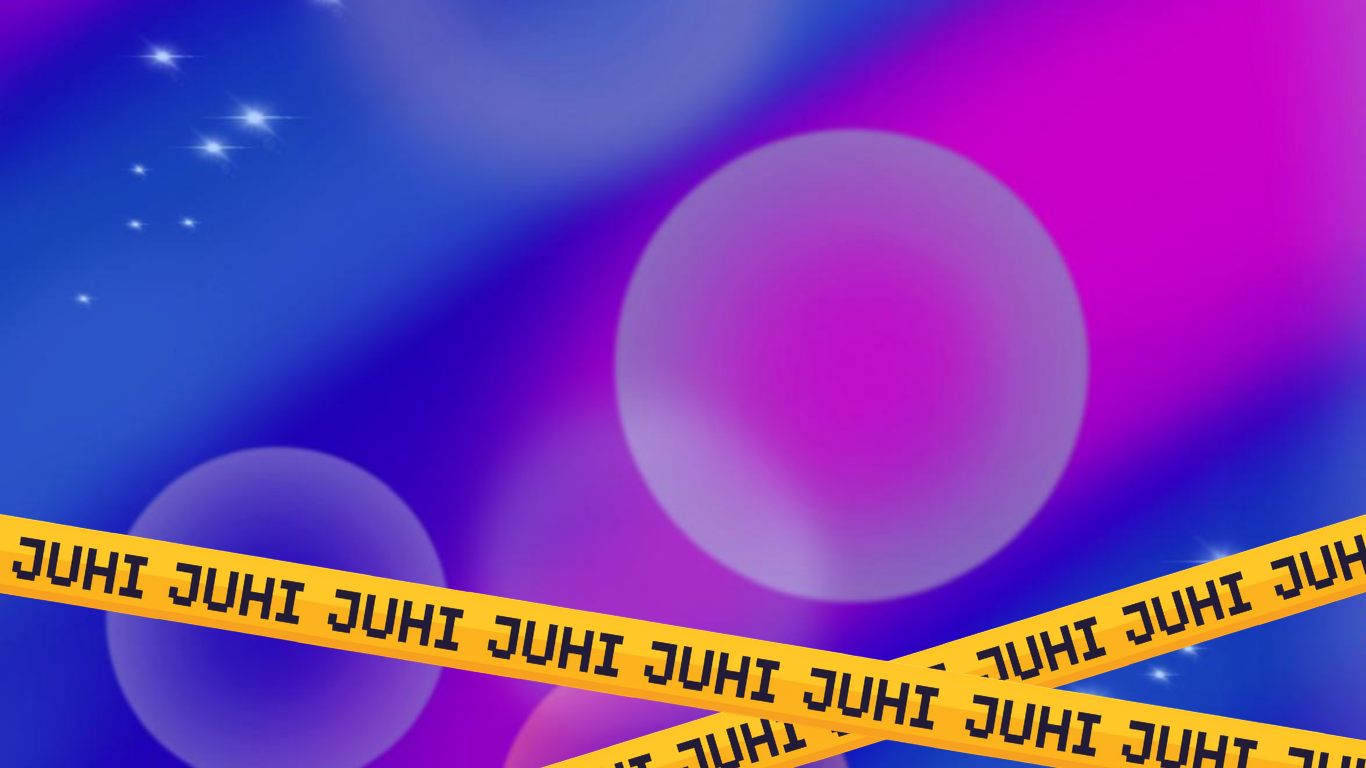
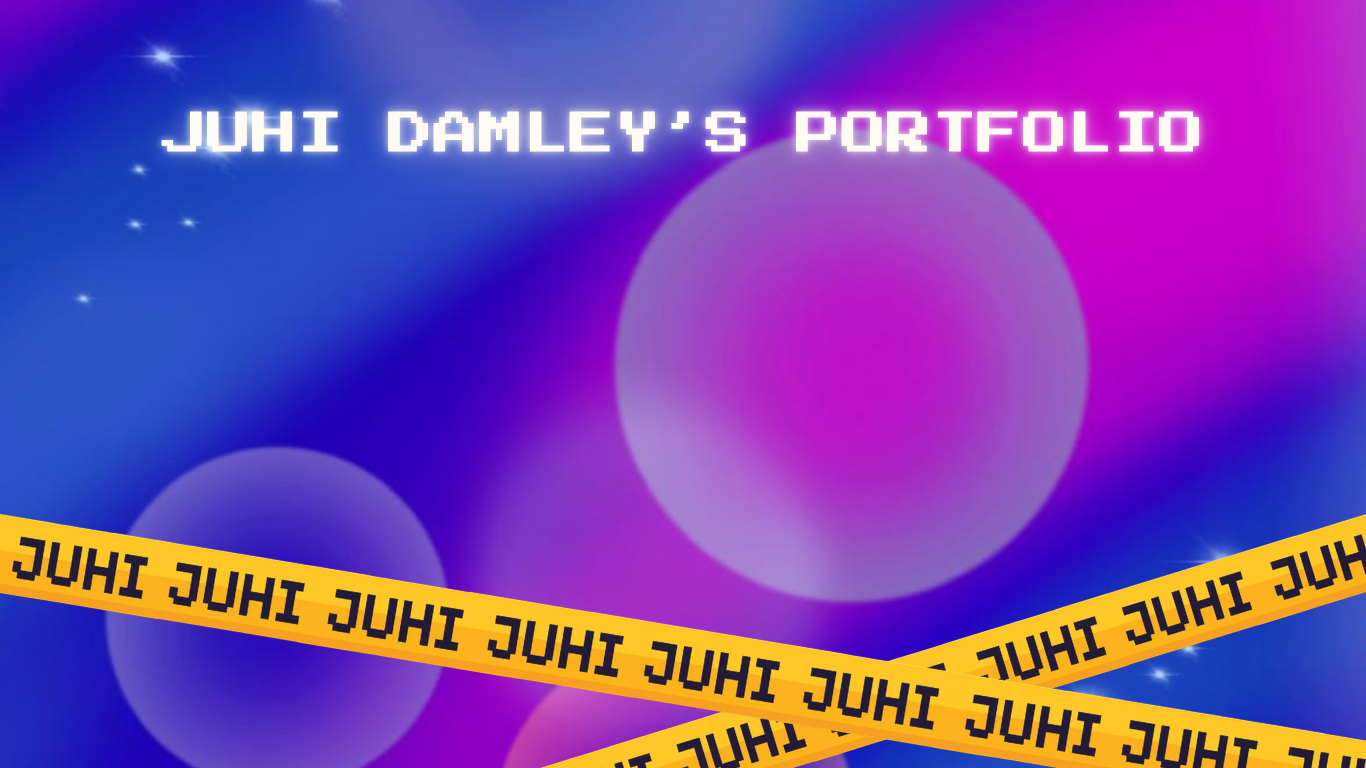
Tweaks

Changed region(s): [[0.2767, 0.125, 0.8917, 0.2188], [0.123, 0.125, 0.246, 0.2188]]

diff --git a/src/pages/Home.tsx b/src/pages/Home.tsx
@@ -27,7 +27,7 @@ type TapeItem = {
 };
 
 const NAV_ITEMS: NavItem[] = [
-  { label: 'Home', icon: '/assets/home.svg', path: '/', x: 313.6, y: 194.5, w: 152.1, h: 171.2 },
+  { label: 'Home', icon: '/assets/home.svg', path: '/', x: 316.1, y: 194.5, w: 152.1, h: 171.2 },
   { label: 'Links', icon: '/assets/links.svg', path: '/links', x: 316.1, y: 392.5, w: 141.8, h: 152.9 },
   { label: 'About', icon: '/assets/about.svg', path: '/about', x: 510, y: 199.6, w: 141.8, h: 159.5 },
   { label: 'Resume', icon: '/assets/resume.svg', path: '/resume', x: 511.8, y: 392.5, w: 141.8, h: 149.2 },
